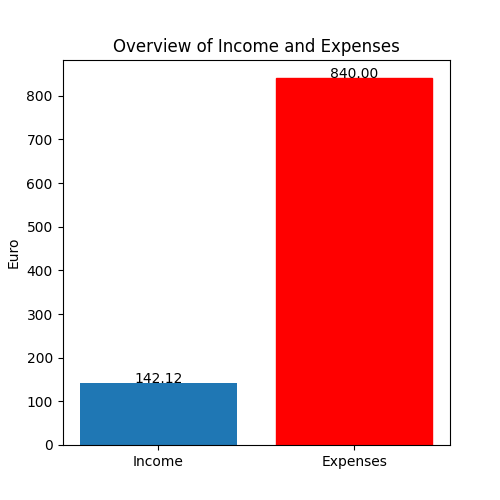
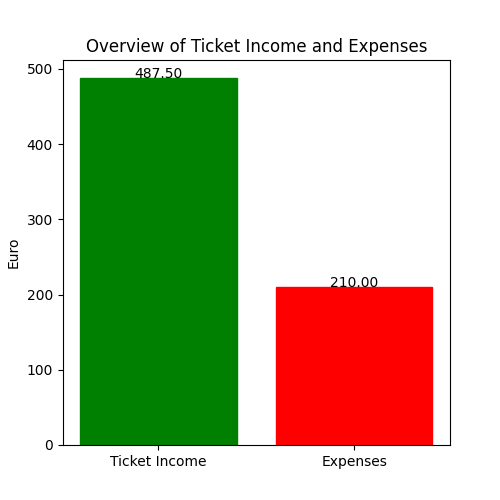
finishing the vizalization

diff --git a/frontend/ui/main_revised.py b/frontend/ui/main_revised.py
@@ -166,8 +166,13 @@ p, li { white-space: pre-wrap; }
             avg_truck = (last_result["outputs"]["avg_waiting_time_truck"]) / 60  # in minutes
             cars = last_result["outputs"]["total_number_cars"]
             trucks = last_result["outputs"]["total_number_trucks"]
-            list_of_waiting_times_cars = last_result["outputs"]["list_of_waiting_times_cars"]
-            list_of_waiting_times_trucks = last_result["outputs"]["list_of_waiting_times_trucks"]
+            list_of_waiting_times_cars = eval(last_result["outputs"]["list_of_waiting_times_cars"])
+            list_of_waiting_times_trucks = eval(last_result["outputs"]["list_of_waiting_times_trucks"])
+            vehicles_per_gate = eval(last_result["outputs"]["avg_number_vehicles_per_gate"]) # converted to dictionary
+            did_not_pass_cars = eval(last_result["outputs"]["list_of_n_cars_per_gate_that_did_not_pass"]) # converted to dictionary
+            did_not_pass_trucks = eval(last_result["outputs"]["list_of_n_trucks_per_gate_that_did_not_pass"]) # converted to dictionary
+
+
             # from input
             out_gate_open_val = last_entry["parameters"]["gate_open_time"]
             out_gate_close_val = last_entry["parameters"]["gate_closing_time"]
@@ -181,20 +186,39 @@ p, li { white-space: pre-wrap; }
             out_area_length_val = last_entry["parameters"]["total_area_length"]
             out_perc_online_val = last_entry["parameters"]["perc_online_check_in"]
 
+
+            #Vizualization 1
+            keys_array = list(vehicles_per_gate.keys())
+            did_pass = []
+            did_not_pass = []
+
+            for key in keys_array:
+                did_pass.append(vehicles_per_gate.get(key))
+
+                if did_not_pass_cars.get(key) is not None:
+                    car = did_not_pass_cars.get(key)
+                else:
+                    car = 0
+
+                if did_not_pass_trucks.get(key) is not None:
+                    truck = did_not_pass_trucks.get(key)
+                else:
+                    truck = 0
+
+                did_not_pass.append(car + truck)
+
+
+
+
             # Vizualization 2
-            gates = 4
+            gates = len(vehicles_per_gate)
 
             open_time = datetime.strptime(out_gate_open_val, "%H:%M")
             close_time = datetime.strptime(out_gate_close_val, "%H:%M")
 
             gates_open = (close_time - open_time).seconds / 3600  # to get from seconds to hours
 
-            # # how much is for the parking?
-            # # 5% for the pre-gate-parking
-            percentage_for_parking = 0.05
-            ticket_parking = out_ticket_cost_val * percentage_for_parking
-
-            income = (cars * ticket_parking) + (trucks * (ticket_parking * 1.5))
+            income = (cars * out_ticket_cost_val) + (trucks * (out_ticket_cost_val * 1.5))
 
             # # Expenses = price for each employee per gate (excl. sel-check-in) and hours + gates cost per hour
             expenses = (gates * (gates_open * out_empl_cost_val)) + (gates * (gates_open * out_gate_cost_val))
@@ -206,8 +230,8 @@ p, li { white-space: pre-wrap; }
             emission_car = 19.1
             emission_truck = 45.56
 
-            emission_car_all = (np.sum(list_of_waiting_times_cars)) * emission_car
-            emission_truck_all = (np.sum(list_of_waiting_times_trucks)) * emission_truck
+            emission_car_all = (sum(list_of_waiting_times_cars.values())) * emission_car
+            emission_truck_all = (sum(list_of_waiting_times_trucks.values())) * emission_truck
 
             print(entry_id)
             # Set status to OK
@@ -265,7 +289,7 @@ p, li { white-space: pre-wrap; }
             lab_sim_id.setText(str(entry_id))
 
             # generate charts for the simulation
-            create_handled_vehicles_chart('./img/chart_0_0.png')
+            create_handled_vehicles_chart('./img/chart_0_0.png', keys_array, did_pass, did_not_pass)
             create_income_expenses_chart('./img/chart_0_1.png', income, expenses)
             create_avg_waiting_chart('./img/chart_1_0.png', avg_car, avg_truck)
             create_co2_emission_chart('./img/chart_1_1.png', emission_car_all, emission_truck_all)

diff --git a/frontend/visualization/visualization.py b/frontend/visualization/visualization.py
@@ -1,31 +1,55 @@
 import matplotlib.pyplot as mpl
 import numpy as np
+
+
 def addlabels(x, y):
     for i in range(len(x)):
         mpl.text(i, y[i], "{:.2f}".format(y[i]), ha='center')
 
-def create_handled_vehicles_chart(save_path):
+
+def create_handled_vehicles_chart(save_path, keys_array, did_pass, did_not_pass):
     # chart 1 ---------------------------------------------------------------------------------------
     # Handled Vehicles per Gate
     # creating ficticious data to plot.
-    gates = [1, 2, 3, 4]
-    data_y1 = [10, 20, 30, 40]
-    data_y2 = [20, 30, 40, 50]
-    data_x = np.arange(len(gates))
+    data_x = np.arange(len(keys_array))
     # Creating the Figure container
     fig = mpl.figure(figsize=(5, 5))
     # Creating the axis
     ax = fig.add_subplot()
     # Line plot command
-    ax.bar(data_x, data_y1, label='Vehicles handled')
-    ax.bar(data_x, data_y2, bottom=data_y1, label='Vehicles waiting')
+    bar_width = 0.8
+    ax.bar(data_x, did_pass, label='Vehicles handled', width=bar_width, align="center")
+    ax.bar(data_x, did_not_pass, bottom=did_pass, label='Vehicles waiting', width=bar_width, align="center")
+
+    array = []
+    if len(keys_array) == 1:
+        print(len(keys_array))
+        ax.set_ylim(0, (sum(did_pass) + sum(did_not_pass)) * 1.2)
+        print(sum(did_pass) + sum(did_not_pass) * 1.2)
+        ax.set_xlim(-0.8, 0.8)
+    else:
+        for i in range(len(did_pass)):
+            array.append(did_pass[i] + did_not_pass[i])
+        val = max(array)
+        ax.set_ylim(0, val * 1.2)
+
+
+    did_and_did_not = []
+    for i in range(len(did_pass)):
+        did_and_did_not.append(did_pass[i] + did_not_pass[i])
+
+    addlabels(keys_array, did_and_did_not)
+
     ax.set_ylabel('Vehicles')
     ax.set_xlabel('Gates')
     ax.set_title('Handled Vehicles per Gate')
     ax.legend()
-
-    ax.set_xticks(data_x, gates)
+    # Setting x-tick labels
+    ax.set_xticks(data_x)
+    ax.set_xticklabels(keys_array)
+    mpl.tight_layout()
     fig.savefig(save_path)
+
     # ax.grid()
     # mpl.show()
 
@@ -36,14 +60,15 @@ def create_income_expenses_chart(save_path, income, expenses):
     # chart
     fig = mpl.figure(figsize=(5, 5))
     ax = fig.add_subplot()
-    x_labels = ["Income", "Expenses"]
+    x_labels = ["Ticket Income", "Expenses"]
     y_axis = [income, expenses]
     data_x = np.arange(len(x_labels))
     barlist = ax.bar(data_x, y_axis)
     barlist[1].set_color('red')
-    addlabels(x_labels,y_axis)
+    barlist[0].set_color('green')
+    addlabels(x_labels, y_axis)
     ax.set_ylabel('Euro')
-    ax.set_title('Overview of Income and Expenses')
+    ax.set_title('Overview of Ticket Income and Expenses')
     ax.set_xticks(data_x, x_labels)
     # mpl.show()
     fig.savefig(save_path)
@@ -62,15 +87,12 @@ def create_avg_waiting_chart(save_path, avg_car, avg_truck):
     data_x = np.arange(len(x_labels))
     barlist = ax.bar(data_x, y_axis)
     barlist[1].set_color('orange')
-    addlabels(x_labels,y_axis)
+    addlabels(x_labels, y_axis)
     ax.set_ylabel('Minutes')
     ax.set_title('Average Waiting Time in Minutes')
     ax.set_xticks(data_x, x_labels)
     # mpl.show()
     fig.savefig(save_path)
-
-
-
 
 
 def create_co2_emission_chart(save_path, emission_car_all, emission_truck_all):
